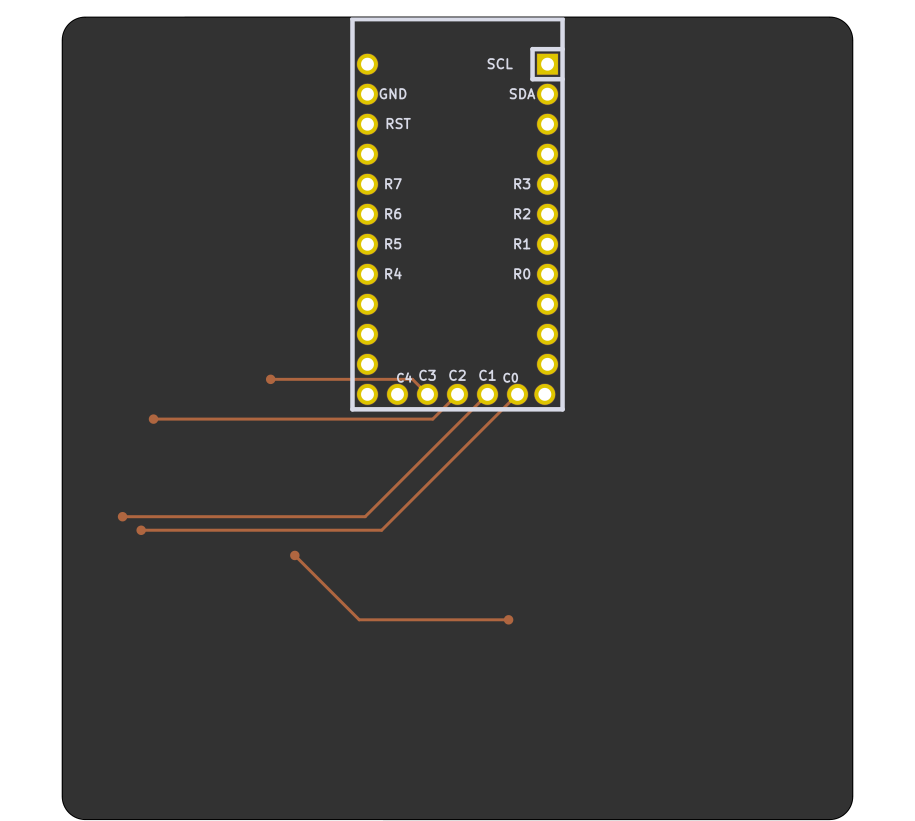
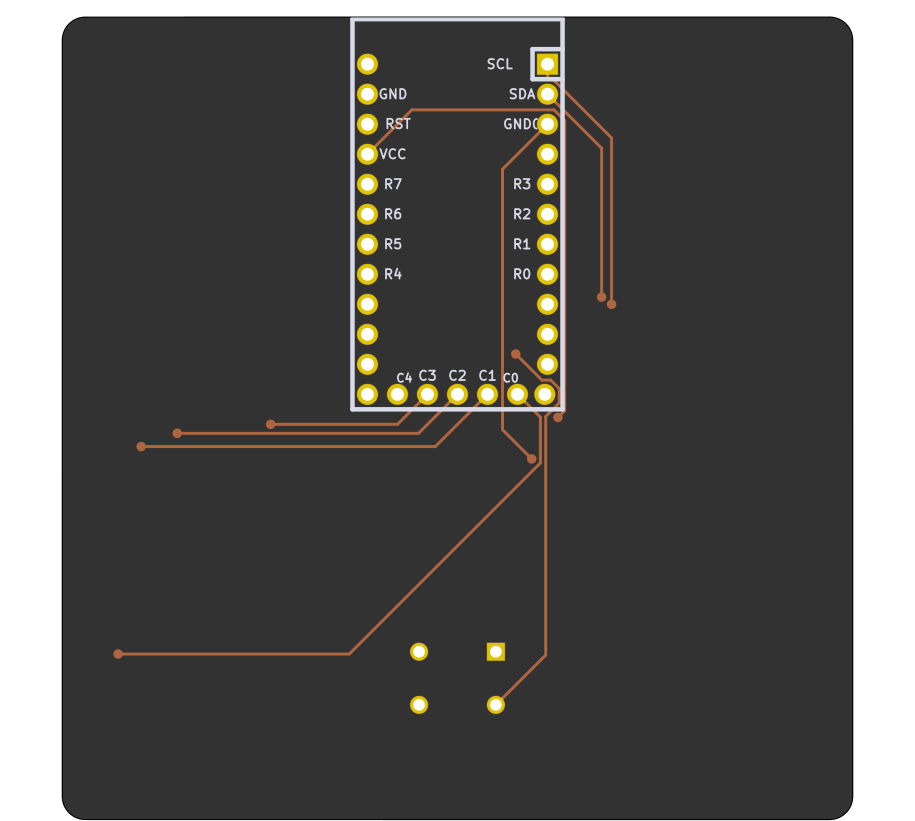
Adds pads for the Azoteq trackpad

diff --git a/input/footprints/azoteq_trackpad.js b/input/footprints/azoteq_trackpad.js
@@ -38,31 +38,37 @@
 module.exports = {
     params: {
         designator: 'TP',
-        from: "",
-        to: ""
+        side: "F",
+        SDA: {type: 'net', value: 'SDA'},
+        SCL: {type: 'net', value: 'SCL'},
+        VCC: {type: 'net', value: 'VCC'},
+        GND: {type: 'net', value: 'GND'},
+        RST: {type: 'net', value: ''},
+        RDY: {type: 'net', value: ''}
     },
     body: p => {
-        const outline = `
+        const footprint = `
             (module TPS65 (layer F.Cu) (tedit 5DD50112)
             ${p.at /* parametric position */}
             (attr virtual)
+            (fp_text reference "${p.ref}" (at 0 0) (layer ${p.side}.SilkS) ${p.ref_hide} (effects (font (size 1.27 1.27) (thickness 0.15))))
 
-            ${'' /* footprint reference */}
-            (fp_text reference "${p.ref}" (at 0 0) (layer F.SilkS) ${p.ref_hide} (effects (font (size 1.27 1.27) (thickness 0.15))))
-
-            ${''/* corner marks - front */}
+            ${''/* corner marks */}
             (fp_line (start -32.5 -24.5) (end -32.5 24.5) (layer F.SilkS) (width 0.15))
             (fp_line (start -32.5 24.5) (end 32.5 24.5) (layer F.SilkS) (width 0.15))
             (fp_line (start 32.5 24.5) (end 32.5 -24.5) (layer F.SilkS) (width 0.15))
             (fp_line (start 32.5 -24.5) (end -32.5 -24.5) (layer F.SilkS) (width 0.15))
+            
+            ${''/* pads */}
+            (pad 0 smd rect (at -12.5 17.5 ${p.rot}) (size 1 3) (layers ${p.side}.Cu ${p.side}.Mask ${p.side}.Paste) ${p.SDA.str})
+            (pad 1 smd rect (at -10.5 17.5 ${p.rot}) (size 1 3) (layers ${p.side}.Cu ${p.side}.Mask ${p.side}.Paste) ${p.SCL.str})
+            (pad 2 smd rect (at -8.5 17.5 ${p.rot}) (size 1 3) (layers ${p.side}.Cu ${p.side}.Mask ${p.side}.Paste) ${p.VCC.str})
+            (pad 3 smd rect (at -6.5 17.5 ${p.rot}) (size 1 3) (layers ${p.side}.Cu ${p.side}.Mask ${p.side}.Paste) ${p.GND.str})
+            (pad 4 smd rect (at -4.5 17.5 ${p.rot}) (size 1 3) (layers ${p.side}.Cu ${p.side}.Mask ${p.side}.Paste) ${p.RST.str})
+            (pad 5 smd rect (at -2.5 17.5 ${p.rot}) (size 1 3) (layers ${p.side}.Cu ${p.side}.Mask ${p.side}.Paste) ${p.RDY.str})
             )
+        
         `
-
-
-        const final = `
-            ${outline}
-        `
-
-        return final
+        return footprint;
     }
 }
